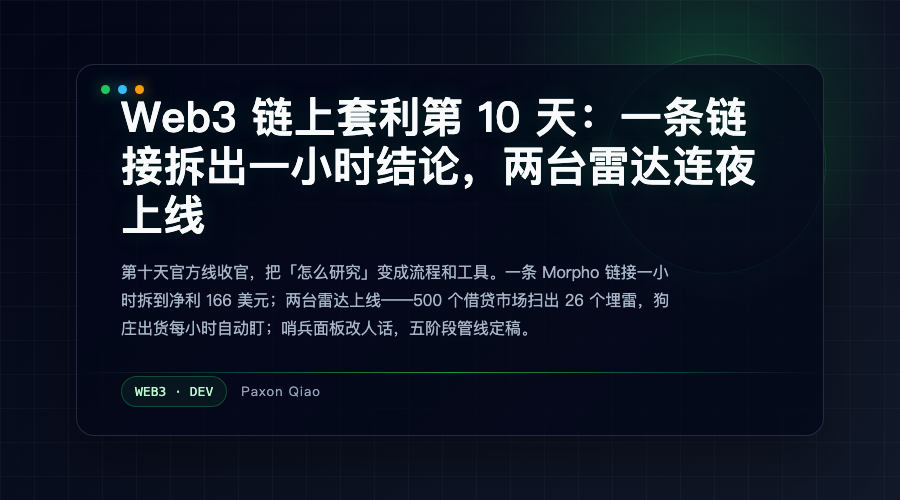
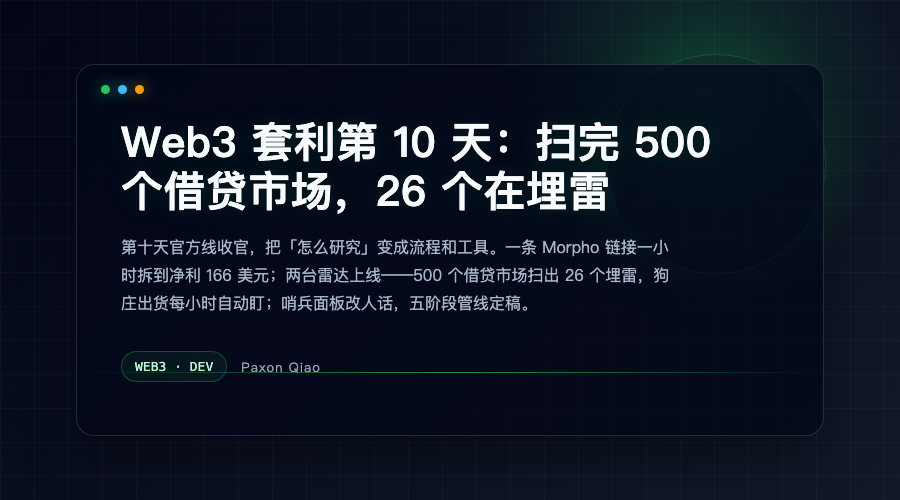
D10标题定稿: Web3套利第10天-扫完500个借贷市场26个在埋雷(用户授权直选,弃双钩子原案); 重ship草稿100011660(旧100011653自动删)

Changed region(s): [[0.1244, 0.18, 0.84, 0.69], [0.1244, 0.72, 0.3733, 0.81], [0.28, 0.78, 0.3733, 0.81]]

diff --git a/social/wechat/2026-08-14-d10-radar-day.html b/social/wechat/2026-08-14-d10-radar-day.html
@@ -40,7 +40,7 @@ body{width:900px;height:500px;overflow:hidden;font-family:'SF Pro Text',-apple-s
   <section class="panel">
     <div class="toolbar"><span class="dot"></span><span class="dot"></span><span class="dot"></span></div>
 
-    <h1 class="title">Web3 链上套利第 10 天：一条链接拆出一小时结论，两台雷达连夜上线</h1>
+    <h1 class="title">Web3 套利第 10 天：扫完 500 个借贷市场，26 个在埋雷</h1>
     <p class="subtitle">第十天官方线收官，把「怎么研究」变成流程和工具。一条 Morpho 链接一小时拆到净利 166 美元；两台雷达上线——500 个借贷市场扫出 26 个埋雷，狗庄出货每小时自动盯；哨兵面板改人话，五阶段管线定稿。</p>
     <div class="meta"><span class="chip">WEB3 · DEV</span><span class="author">Paxon Qiao</span></div>
     <div class="scanline"></div>
@@ -48,7 +48,7 @@ body{width:900px;height:500px;overflow:hidden;font-family:'SF Pro Text',-apple-s
 </main>
 </body>
 </html>
-<h2 style="font-size: 19px; font-weight: 800; color: #1a1a1a; margin: 2.3em 0 1em; padding: 0 0 10px 14px; border-left: 5px solid #2c2c2c; border-bottom: 1px solid #e5e7eb; letter-spacing: 1px; line-height:1.45;">Web3 链上套利第 10 天：一条链接拆出一小时结论，两台雷达连夜上线</h2>
+<h2 style="font-size: 19px; font-weight: 800; color: #1a1a1a; margin: 2.3em 0 1em; padding: 0 0 10px 14px; border-left: 5px solid #2c2c2c; border-bottom: 1px solid #e5e7eb; letter-spacing: 1px; line-height:1.45;">Web3 套利第 10 天：扫完 500 个借贷市场，26 个在埋雷</h2>
 
 <section style="margin: 1.9em 0; padding: 18px 20px 18px 24px; background: #f8f8f8; border: 1px solid #e5e7eb; border-left: 4px solid #2c2c2c; border-radius: 0 8px 8px 0; box-shadow: 0 2px 8px rgba(15,23,42,0.05); color: #888; font-size: 15px; line-height: 1.9; letter-spacing: 0.08em;">链上套利残酷共学 · 第 10 天
 2026-08-14</section>

diff --git a/social/wechat/2026-08-14-d10-radar-day.cover.html b/social/wechat/2026-08-14-d10-radar-day.cover.html
@@ -29,7 +29,7 @@ body{width:900px;height:500px;overflow:hidden;font-family:'SF Pro Text',-apple-s
   <section class="panel">
     <div class="toolbar"><span class="dot"></span><span class="dot"></span><span class="dot"></span></div>
 
-    <h1 class="title">Web3 链上套利第 10 天：一条链接拆出一小时结论，两台雷达连夜上线</h1>
+    <h1 class="title">Web3 套利第 10 天：扫完 500 个借贷市场，26 个在埋雷</h1>
     <p class="subtitle">第十天官方线收官，把「怎么研究」变成流程和工具。一条 Morpho 链接一小时拆到净利 166 美元；两台雷达上线——500 个借贷市场扫出 26 个埋雷，狗庄出货每小时自动盯；哨兵面板改人话，五阶段管线定稿。</p>
     <div class="meta"><span class="chip">WEB3 · DEV</span><span class="author">Paxon Qiao</span></div>
     <div class="scanline"></div>

diff --git a/social/wechat/2026-08-14-d10-radar-day.md b/social/wechat/2026-08-14-d10-radar-day.md
@@ -1,12 +1,12 @@
 ---
-title: Web3 链上套利第 10 天：一条链接拆出一小时结论，两台雷达连夜上线
-wechat_title: Web3 链上套利第 10 天：一条链接拆出一小时结论，两台雷达连夜上线
+title: Web3 套利第 10 天：扫完 500 个借贷市场，26 个在埋雷
+wechat_title: Web3 套利第 10 天：扫完 500 个借贷市场，26 个在埋雷
 digest: 第十天官方线收官，把「怎么研究」变成流程和工具。一条 Morpho 链接一小时拆到净利 166 美元；两台雷达上线——500 个借贷市场扫出 26 个埋雷，狗庄出货每小时自动盯；哨兵面板改人话，五阶段管线定稿。
 author: Paxon Qiao
 wechat_author: Paxon Qiao
 ---
 
-# Web3 链上套利第 10 天：一条链接拆出一小时结论，两台雷达连夜上线
+# Web3 套利第 10 天：扫完 500 个借贷市场，26 个在埋雷
 
 > 链上套利残酷共学 · 第 10 天
 > 2026-08-14
